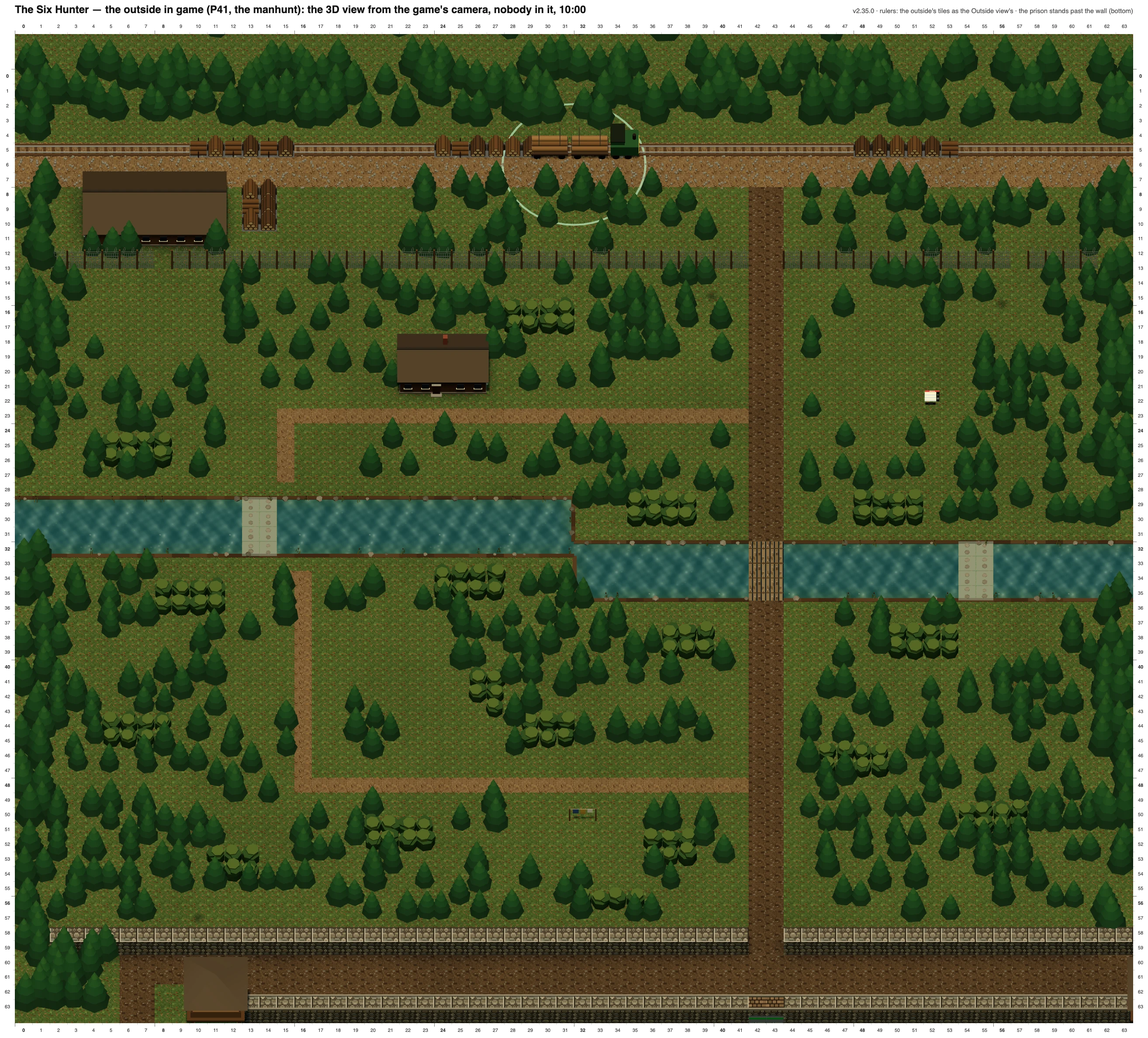
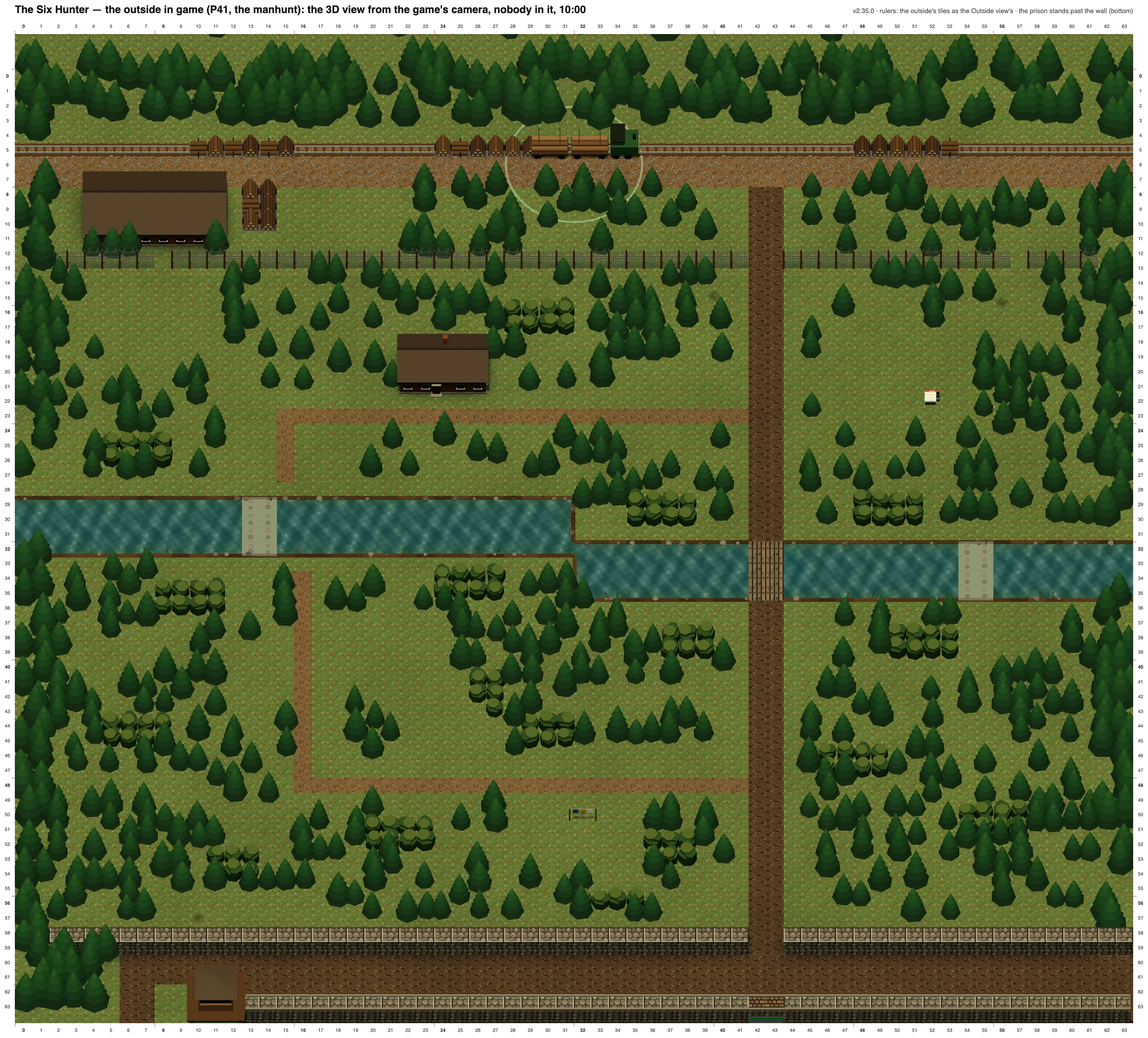
The Six Hunter (look): its perfprobe scenes re-recorded with the banks culled (146–150k → 113–117k triangles, the same draw calls; all 42 scenes in budget), the map viewer's two photos retaken (the lighter moss, the smaller stands), the history's lines for the review's fixes and the hitch fix (77 te

diff --git a/docs/history/v2.35-v2.39.md b/docs/history/v2.35-v2.39.md
@@ -350,8 +350,10 @@ Every release in this range, in order: what changed, what the reviews found and 
     job planted in a full pocket (`liftGuards` skips full kits); the kennels split from their run. The review:
     the job's trust disarmed the pack (now +10, capped at 40, fading on a missed day); the outside a copy of
     Stalag's (redrawn); the drag line's pull, the horn's reach, the antler's quiet and card lines made true.
-  - **Look:** the forest theme, pines, stands, lanterns, the river (`River.ts`: flowing, banks, bridges,
-    jetty, a raft away), the machines, items, six hounds drawn (four were), ghillie cloak, tally board, light,
-    mist, needles, sounds, the valley outside, the card; `drawhash`: only its frames moved; perf in budget.
+  - **Look:** forest theme, pines, stands, lanterns, the river (`River.ts`), machines, items, six hounds
+    drawn (four were), ghillie cloak, tally, light, sounds, the valley, the card. Review: banks culled, no
+    shadows (146k → 116k tris); night as bright as others'; needles still with reduced motion; no horn on load.
+  - **Hitches (every prison):** programs linked on first draw, 70–150 ms each: `warmDay` links them at
+    load (hitchprobe's worst 934 → 250 ms; `drawhash` identical).
   - **Not checked:** the finish, a hand play in the browser, a real phone.
 
